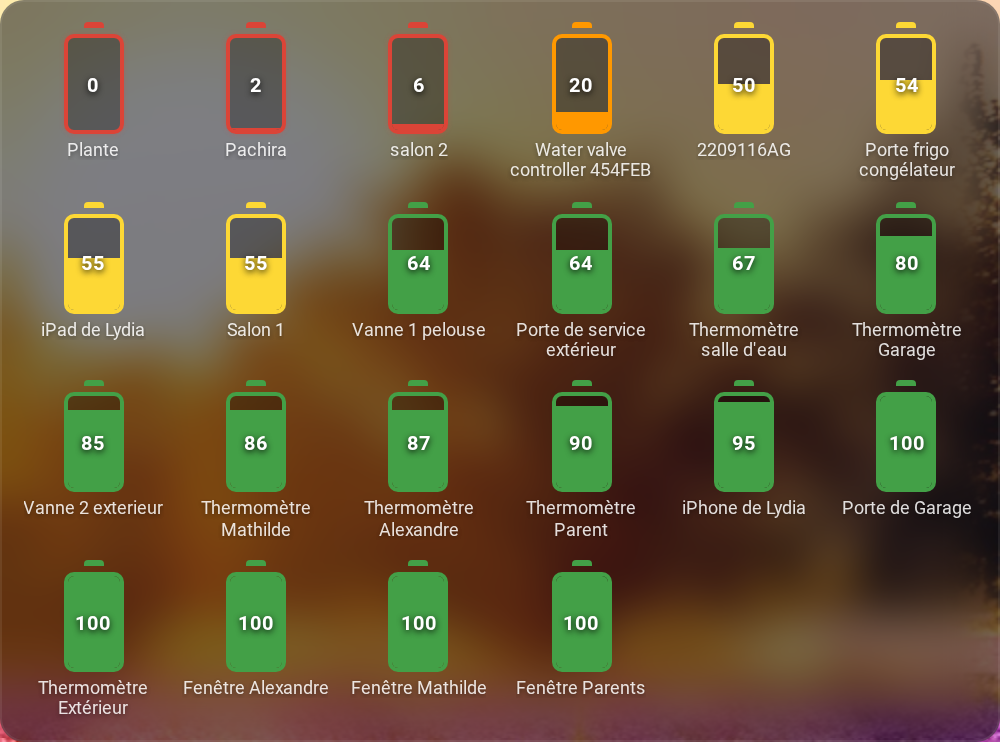
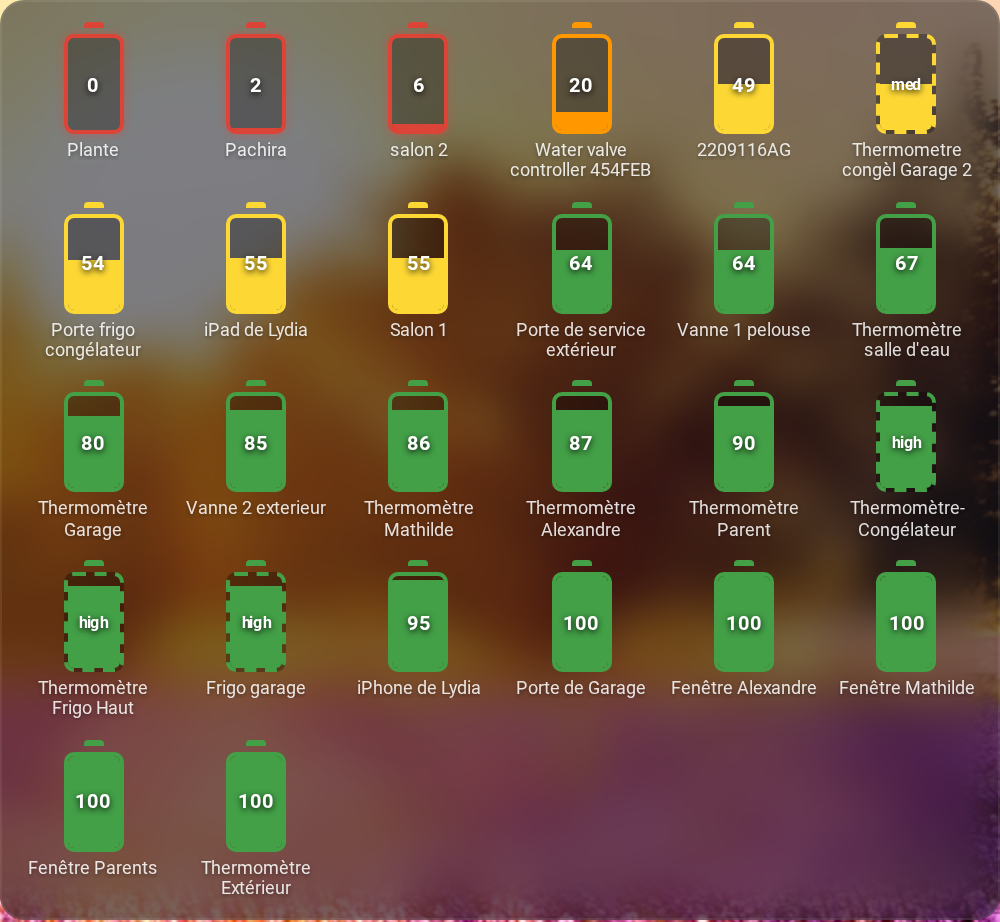
fix(battery_rack): the devices that never say a percentage
Four thermometers — the two freezers, the fridge and the garage one — were missing from the
rack, and were missing from the bar-cards before it: they publish no percentage at all, only
a <device>_battery_state at low, medium or high. A rack built on numbers hides exactly the
devices whose battery nobody can read otherwise.

Three readings are now accepted, in order of preference: a number, a spelled-out level from
text_levels, or a binary "battery low" sensor. Since a device often publishes two of them,
the rack keeps one cell per device and takes the best one — the eleven pairs here collapse
to one cell each instead of doubling up. A *_battery_state holding a charging status
(discharging, Not Charging) is not a level and stays out, as does a sensor that merely says
"high" without being a battery at all.

A deduced level is drawn with a dashed outline and the word inside rather than a number, so
the rack never passes a category off as a measurement.

diff --git a/README.md b/README.md
@@ -477,10 +477,10 @@ variables:
 
 #### `battery_rack`
 Every battery in the house as a rack of upright cells, lowest first. One card draws the whole
-table: it walks the state machine itself, keeps the `sensor.*` entities whose `device_class` is
-`battery` and whose state is a number, and lays them out `columns` per row. Nothing to list and
-nothing to keep in sync — a device that gains a battery sensor shows up on its own, one that
-goes `unavailable` drops out. It needs no card beyond `button-card`.
+table: it walks the state machine itself, reads whatever each device publishes about its
+battery, and lays the result out `columns` per row. Nothing to list and nothing to keep in
+sync — a device that gains a battery sensor shows up on its own, one that goes `unavailable`
+drops out. It needs no card beyond `button-card`.
 
 ![battery_rack](https://raw.githubusercontent.com/jbsky/ha-glass-dashboard/main/docs/screenshots/components/battery_rack.png)
 
@@ -489,6 +489,21 @@ which is what puts the three dying plant sensors above at the top of the rack. T
 inside the cell, the name under it — the friendly name minus its trailing "Battery"/"Batterie"
 (`name_strip`), clamped to two lines. Clicking a cell opens *that* sensor's more-info dialog,
 so nothing is lost against a list of bars.
+
+**Not every device measures its battery**, and the ones that don't are exactly the ones a
+percentage-only rack hides. Three readings are accepted, in that order of preference:
+
+| The device publishes | Read as | Drawn as |
+|---|---|---|
+| a number (`device_class: battery`, or a `%` on a `battery` entity) | the value | solid outline, the number inside |
+| a word — `low`, `medium`, `high`… (`text_levels`) | the mapped percentage | dashed outline, the word inside |
+| a binary `battery low` (`binary_sensor`, `device_class: battery`) | `low` when on, `ok` when off | dashed outline, `low` / `ok` inside |
+
+A dashed outline therefore means *deduced, not measured* — the four freezer and fridge
+thermometers above only ever say `high` or `medium`. Devices commonly publish two of these at
+once, so the rack keeps **one cell per device**, best reading first: a sensor that reports both
+`54 %` and `high` is drawn once, from the number. A `*_battery_state` holding a charging status
+(`discharging`, `Not Charging`) is not a level and is ignored.
 
 | Variable | Default | Description |
 |----------|---------|-------------|
@@ -499,11 +514,13 @@ so nothing is lost against a list of bars.
 | `low` / `warn` / `mid` | `15` / `30` / `60` | Severity thresholds, in percent |
 | `color_low` / `color_warn` | `#db4437` / `#ff9800` | Fill and border below each threshold |
 | `color_mid` / `color_full` | `#fdd835` / `#43a047` | Fill and border above them |
-| `color_unknown` | `#78909C` | Used when the state is not a number |
+| `color_unknown` | `#78909C` | Used when no reading can be made of the state |
 | `width` / `height` | `26px` / `46px` | Size of one cell |
 | `gap` | `10px 6px` | Grid gap, row then column |
 | `pulse_low` | `battery-low 1.6s ease-in-out infinite` | Animation at or below `low`; `none` to drop it |
 | `name_strip` | trailing *battery* / *batterie* | Regex cut off the end of the friendly name |
+| `text_levels` | `low: 15`, `medium: 50`, `high: 90`… | Percentage each spelled-out level stands for |
+| `text_labels` | `medium: med`, `critical: !`… | Shorter word to print in the cell |
 
 ```yaml
 type: custom:button-card
